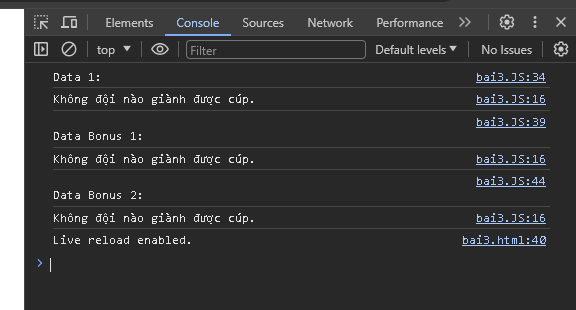
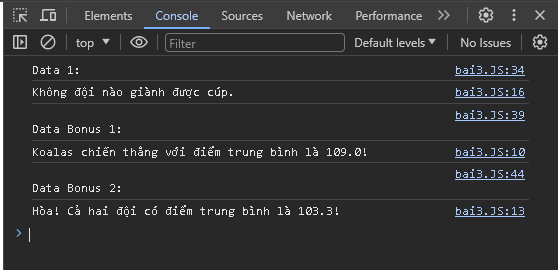
xong bai 4

Changed region(s): [[0.0, 0.0, 1.0, 1.0]]

diff --git a/bai3.JS b/bai3.JS
@@ -17,7 +17,6 @@ function tinhDiemTrungBinh(score1, score2, score3) {
     }
   }
   
-
   var dolphinsScores1 = [96, 108, 89];
   var koalasScores1 = [88, 91, 110];
   
@@ -29,18 +28,18 @@ function tinhDiemTrungBinh(score1, score2, score3) {
   
   var diemToiThieu = 100;
   
-  var dolphinsAvg1 = tinhDiemTrungBinh(dolphinsScores1);
-  var koalasAvg1 = tinhDiemTrungBinh(koalasScores1);
+  var dolphinsAvg1 = tinhDiemTrungBinh(...dolphinsScores1);
+  var koalasAvg1 = tinhDiemTrungBinh(...koalasScores1);
   console.log("Data 1:");
   xacDinhNguoiThang(dolphinsAvg1, koalasAvg1, diemToiThieu);
   
-  var dolphinsAvgBonus1 = tinhDiemTrungBinh(dolphinsScoresBonus1);
-  var koalasAvgBonus1 = tinhDiemTrungBinh(koalasScoresBonus1);
+  var dolphinsAvgBonus1 = tinhDiemTrungBinh(...dolphinsScoresBonus1);
+  var koalasAvgBonus1 = tinhDiemTrungBinh(...koalasScoresBonus1);
   console.log("\nData Bonus 1:");
   xacDinhNguoiThang(dolphinsAvgBonus1, koalasAvgBonus1, diemToiThieu);
   
-  var dolphinsAvgBonus2 = tinhDiemTrungBinh(dolphinsScoresBonus2);
-  var koalasAvgBonus2 = tinhDiemTrungBinh(koalasScoresBonus2);
+  var dolphinsAvgBonus2 = tinhDiemTrungBinh(...dolphinsScoresBonus2);
+  var koalasAvgBonus2 = tinhDiemTrungBinh(...koalasScoresBonus2);
   console.log("\nData Bonus 2:");
   xacDinhNguoiThang(dolphinsAvgBonus2, koalasAvgBonus2, diemToiThieu);
   

diff --git a/bai4.JS b/bai4.JS
@@ -1,0 +1,12 @@
+function tinh(bill) {
+    var tip = (bill >= 50 && bill <= 300) ? (bill * 0.15) : (bill * 0.2);
+    
+    var total = bill + tip;
+    
+    console.log(`Hóa đơn là ${bill}, tiền tip là ${tip.toFixed(2)}, và tổng cộng là ${total.toFixed(2)}`);
+}
+  
+  tinh(275);
+  tinh(40);  
+  tinh(430); 
+  

diff --git a/bai4.html b/bai4.html
@@ -1,0 +1,13 @@
+<!DOCTYPE html>
+<html lang="en">
+<head>
+    <meta charset="UTF-8">
+    <meta name="viewport" content="width=device-width, initial-scale=1.0">
+    <title>Document</title>
+    <script src="../bai4.JS"></script>
+
+</head>
+<body>
+    
+</body>
+</html>
